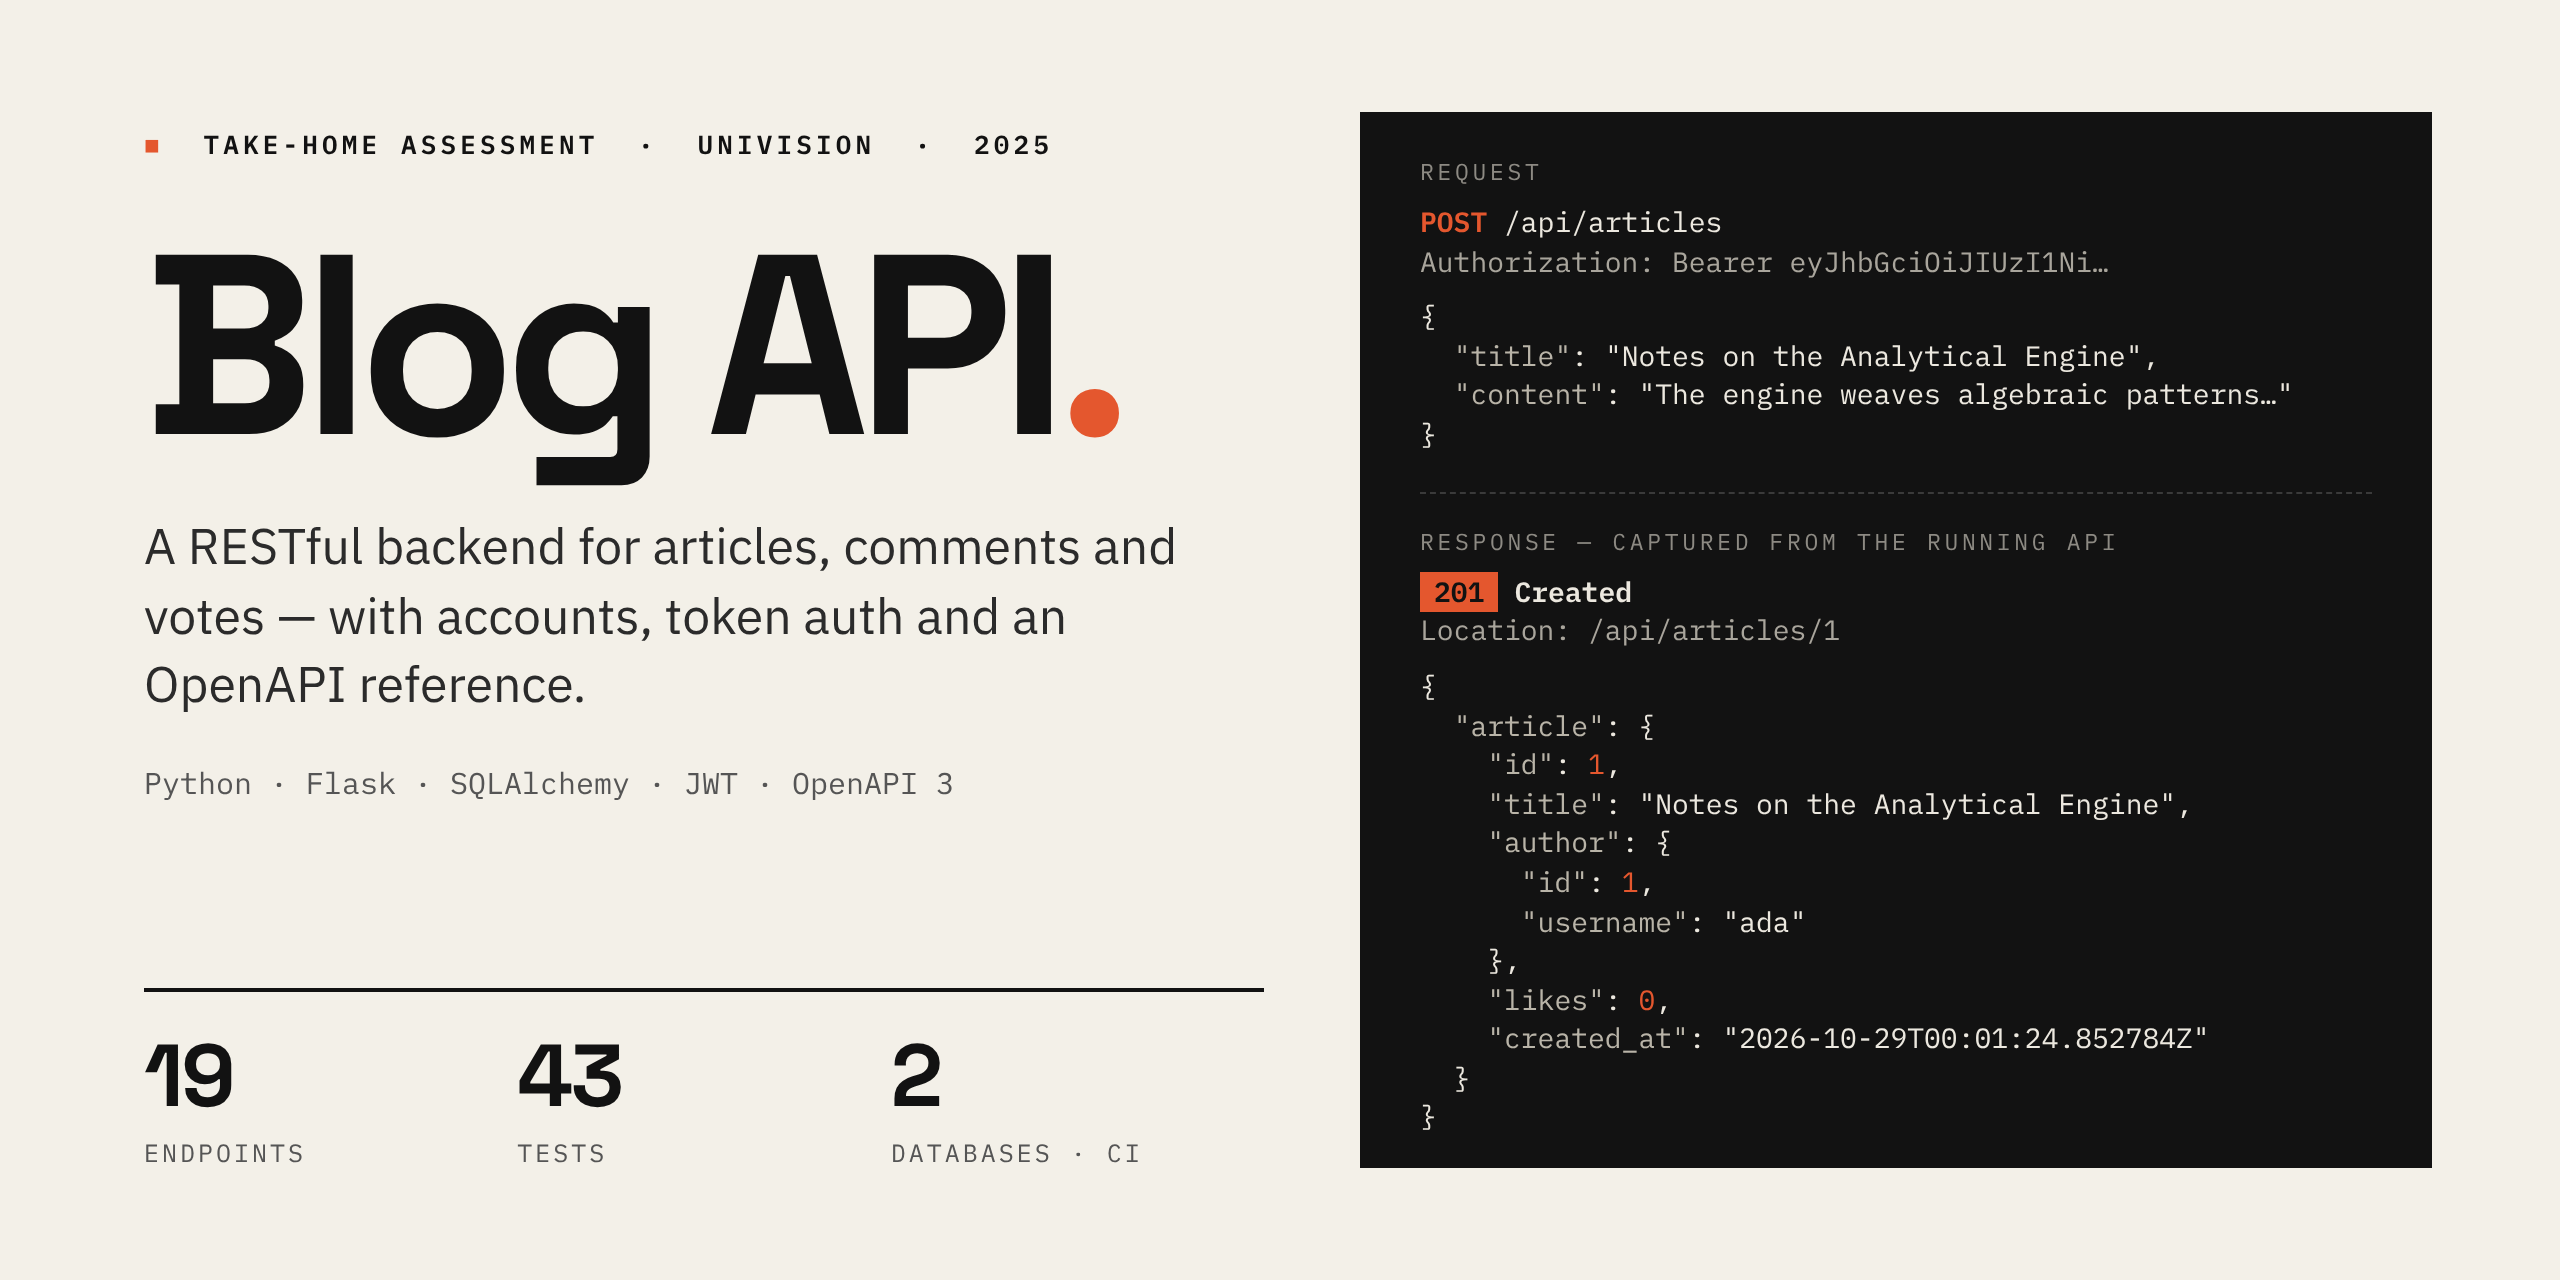
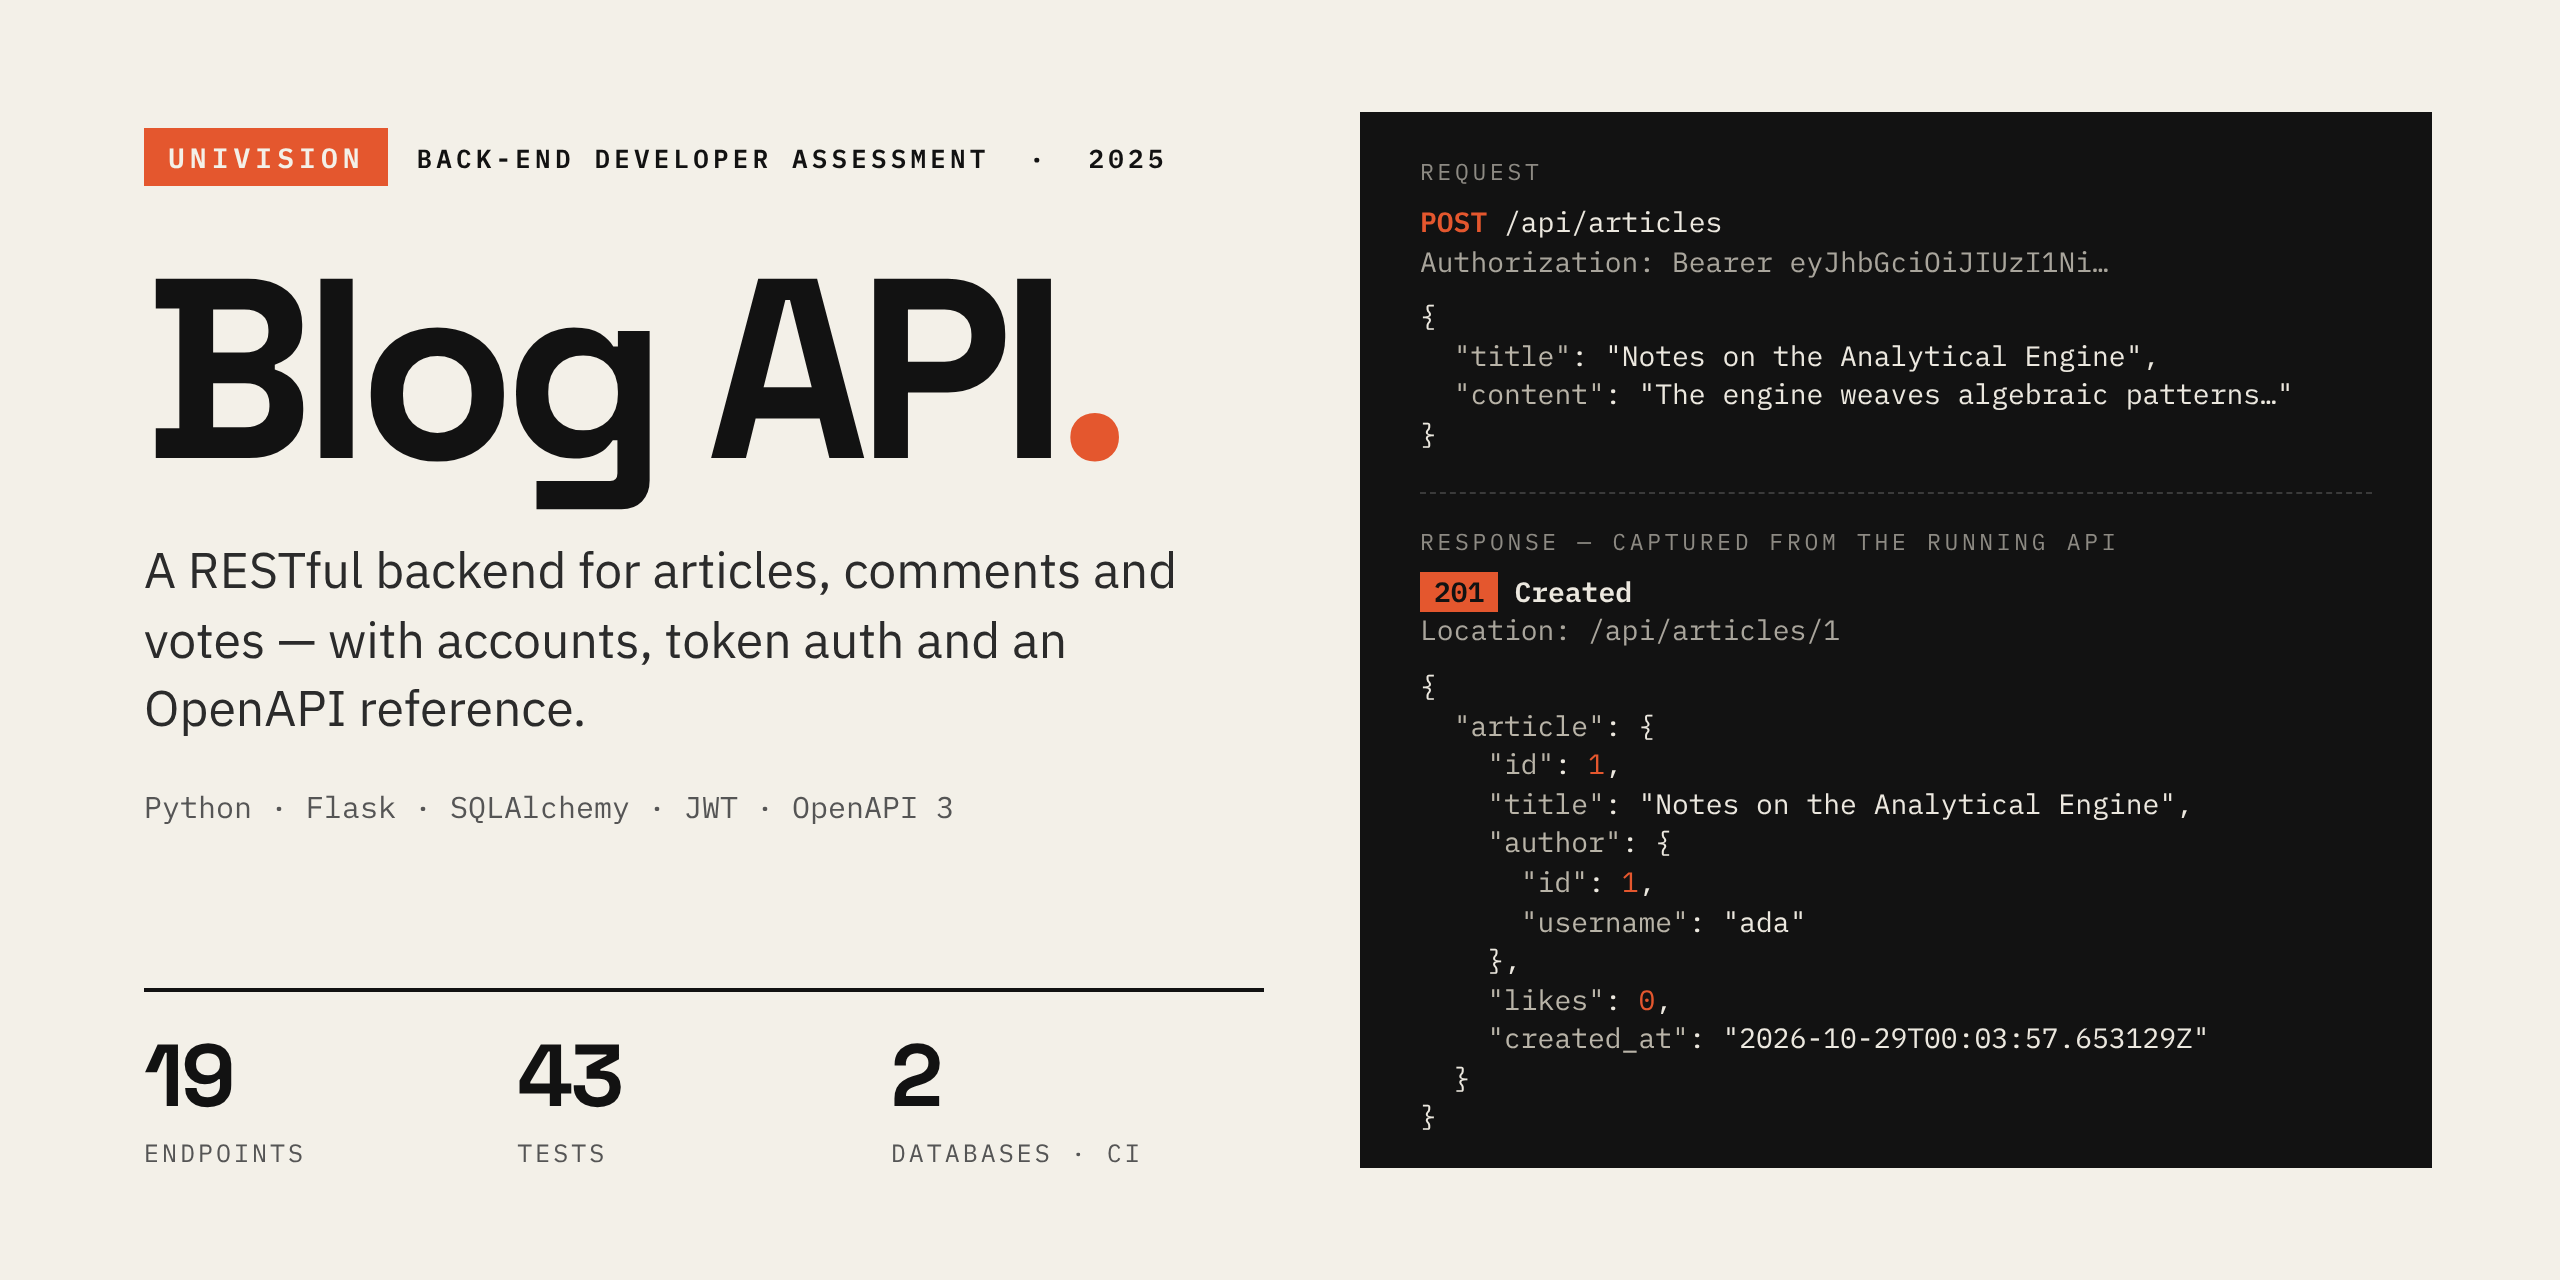
README: make the UniVision assessment context prominent
Claude-Session: https://claude.ai/code/session_01XjSewwR1p2peLfZ7BHTGes

diff --git a/tools/make_assets.py b/tools/make_assets.py
@@ -89,6 +89,8 @@ body {{ width: 1280px; height: 640px; background: {PAPER}; color: {INK}; font-fa
 .left {{ position: absolute; left: 72px; top: 64px; width: 560px; }}
 .kicker {{ font-family: 'Mono'; font-weight: 600; font-size: 13px; letter-spacing: .16em; text-transform: uppercase; }}
 .kicker b {{ color: {SIGNAL}; }}
+.kicker .org {{ display: inline-block; background: {SIGNAL}; color: {PAPER}; padding: 6px 12px 5px; margin-right: 14px;
+               letter-spacing: .18em; font-size: 14px; }}
 h1 {{ font-family: 'Grotesk'; font-weight: 700; font-size: 128px; letter-spacing: -.045em; line-height: .9; margin-top: 34px; }}
 h1 span {{ color: {SIGNAL}; }}
 .sub {{ font-size: 25px; line-height: 1.38; margin-top: 26px; color: #2b2b2b; }}
@@ -110,7 +112,7 @@ h1 span {{ color: {SIGNAL}; }}
 pre {{ font-family: 'Mono'; margin: 8px 0 0; white-space: pre; }}
 </style></head><body>
 <div class="left">
-  <div class="kicker"><b>■</b>&nbsp; Take-home assessment &nbsp;·&nbsp; UniVision &nbsp;·&nbsp; 2025</div>
+  <div class="kicker"><span class="org">UniVision</span>Back-end developer assessment &nbsp;·&nbsp; 2025</div>
   <h1>Blog API<span>.</span></h1>
   <div class="sub">A RESTful backend for articles, comments and votes — with accounts, token auth and an OpenAPI reference.</div>
   <div class="stack">Python · Flask · SQLAlchemy · JWT · OpenAPI 3</div>

diff --git a/README.md b/README.md
@@ -6,6 +6,11 @@
   <a href="https://github.com/sayko89/back-end_developer_assessment/actions/workflows/tests.yml"><img src="https://github.com/sayko89/back-end_developer_assessment/actions/workflows/tests.yml/badge.svg" alt="tests"></a>
 </p>
 
+<p align="center">
+  <b>UniVision &nbsp;·&nbsp; Back-End Developer Assessment &nbsp;·&nbsp; 2025</b><br>
+  <sub>My solution to the take-home task for UniVision's back-end developer role, later extended into a production-style API.</sub>
+</p>
+
 <h3 align="center">
   <a href="https://blog-api-ni5d.onrender.com/docs/">▶&nbsp; Live demo — try every endpoint in your browser</a>
 </h3>
@@ -26,7 +31,8 @@
 
 <br>
 
-A REST API for a small blog, built with **Flask**, **SQLAlchemy** and **JWT**. People can sign up, manage
+This is my solution to **UniVision's back-end developer assessment**: a REST API for a small blog,
+built with **Flask**, **SQLAlchemy** and **JWT**. People can sign up, manage
 their profile, publish and edit articles, comment, and like or dislike articles. Every endpoint is
 documented in an **OpenAPI 3** reference with an interactive Swagger UI. It runs with one
 `docker compose up`, its schema is versioned with **Alembic** migrations, and 43 tests run on **SQLite
@@ -36,8 +42,9 @@ and PostgreSQL** in GitHub Actions on every push.
 
 ## The assignment
 
-This started as a take-home task for a back-end developer role at UniVision (June 2025). The brief asked
-for three things — here is where each one lives:
+UniVision gave this as the take-home task for a **back-end developer** role (June 2025): design and build
+the back-end services and API of a blog management system. The brief asked for three things — here is
+where each one lives:
 
 | The brief asked for | Where it is |
 |---|---|
